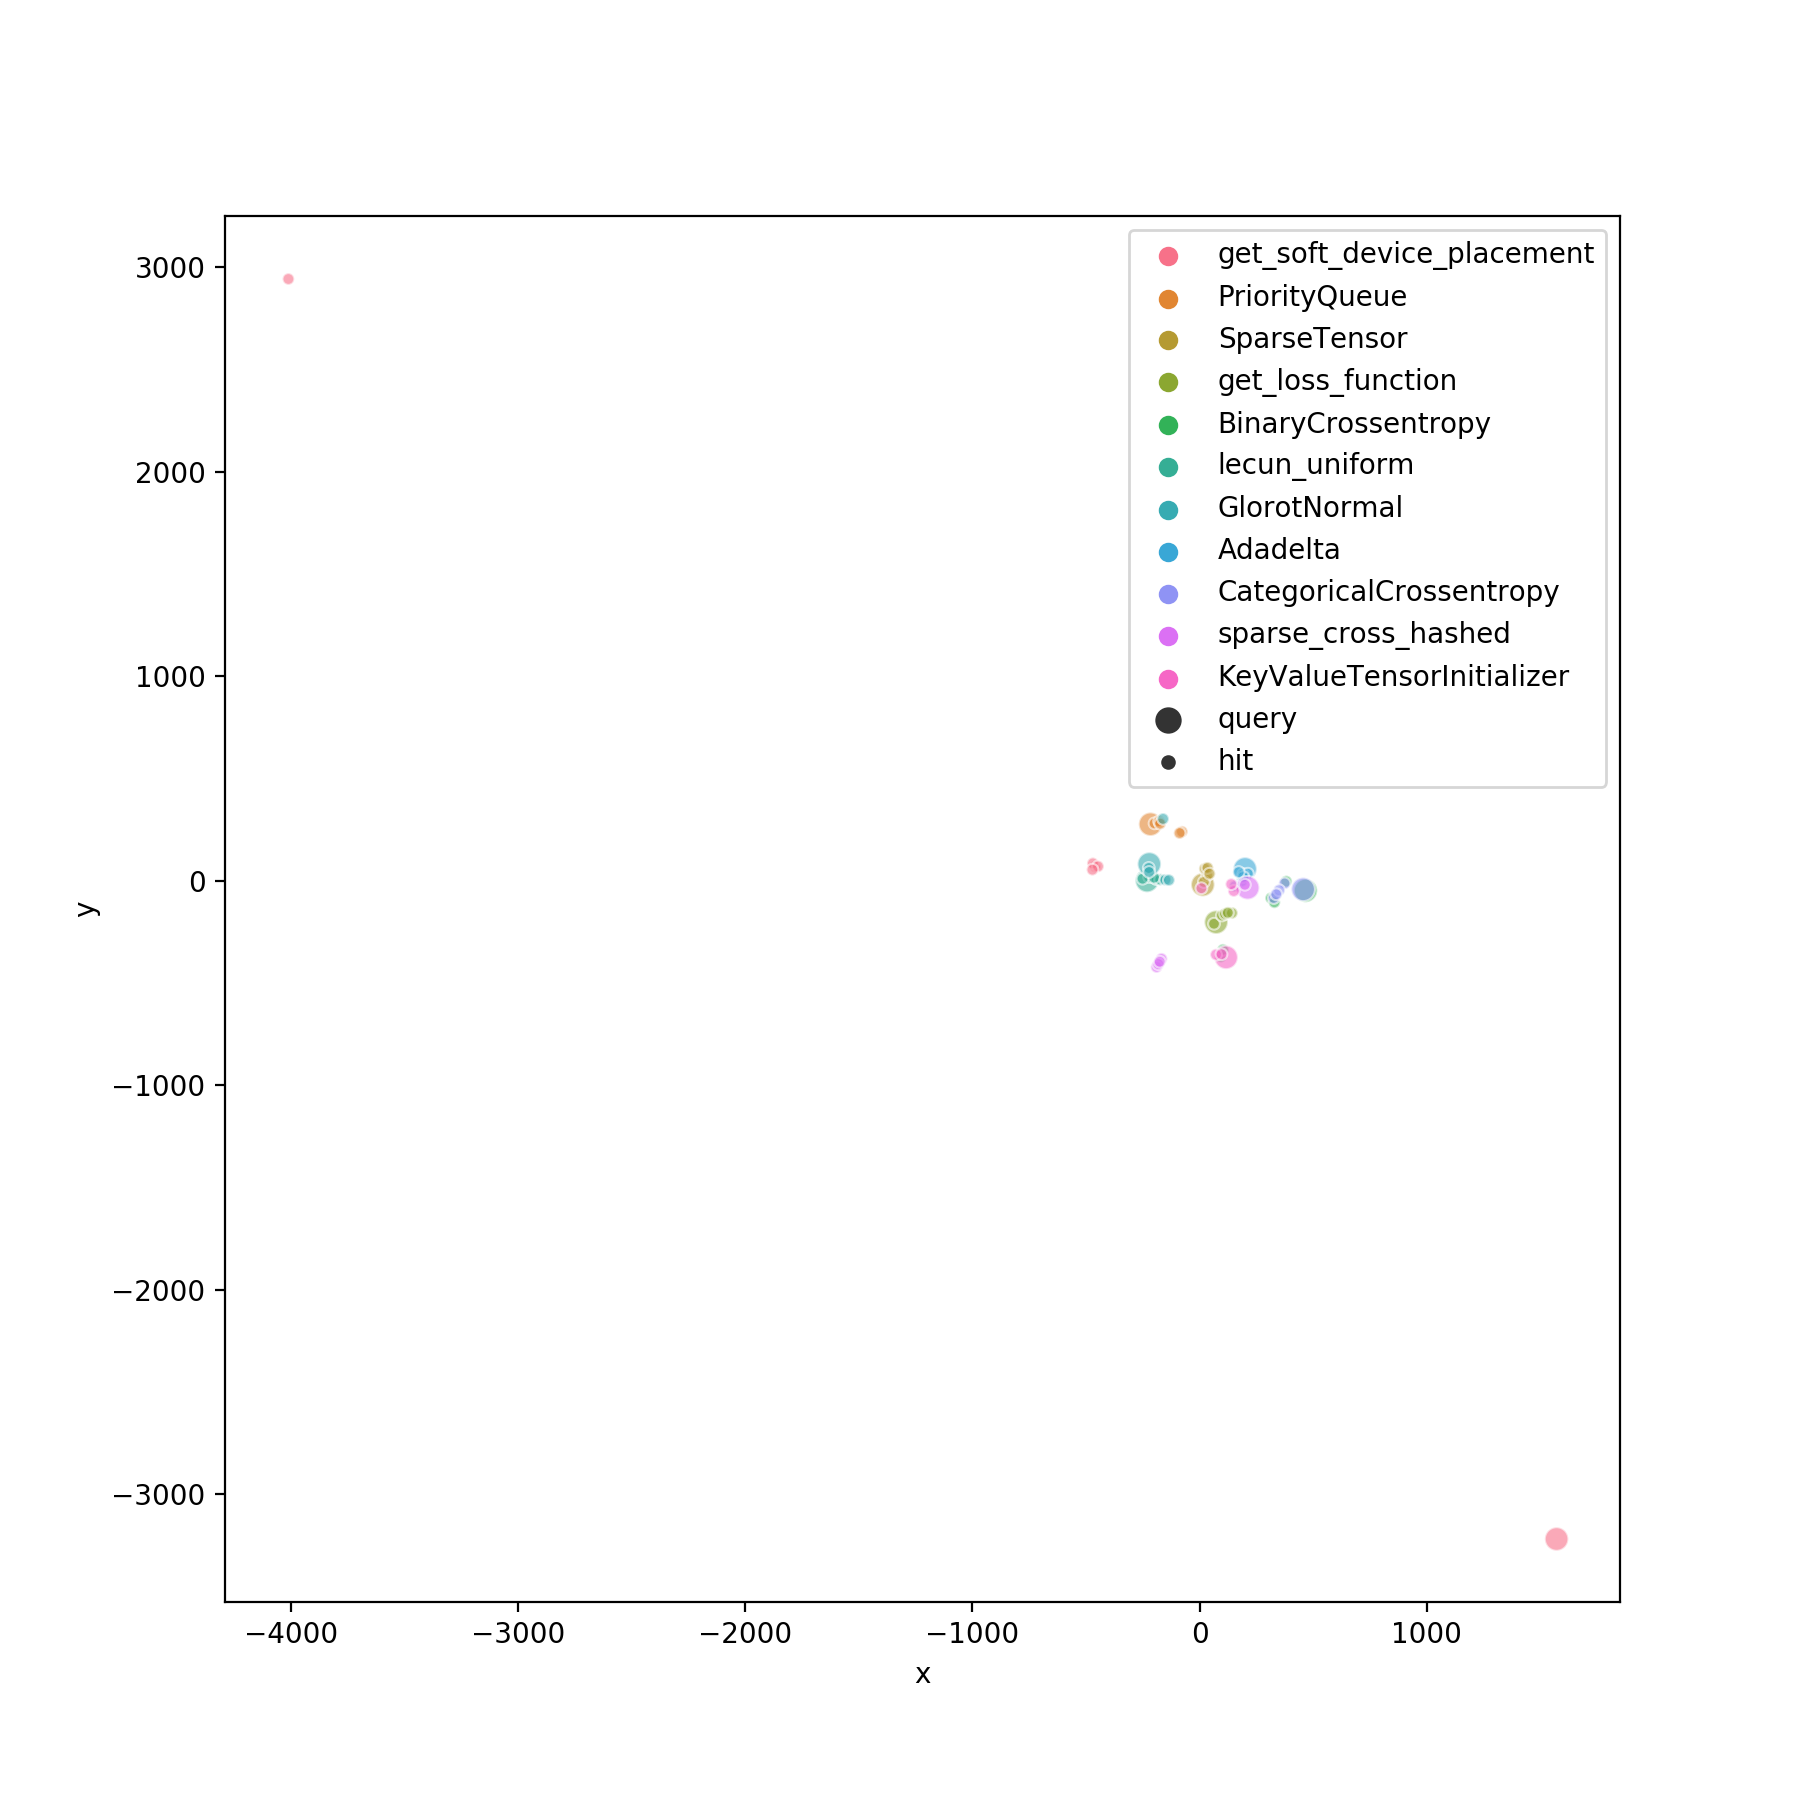
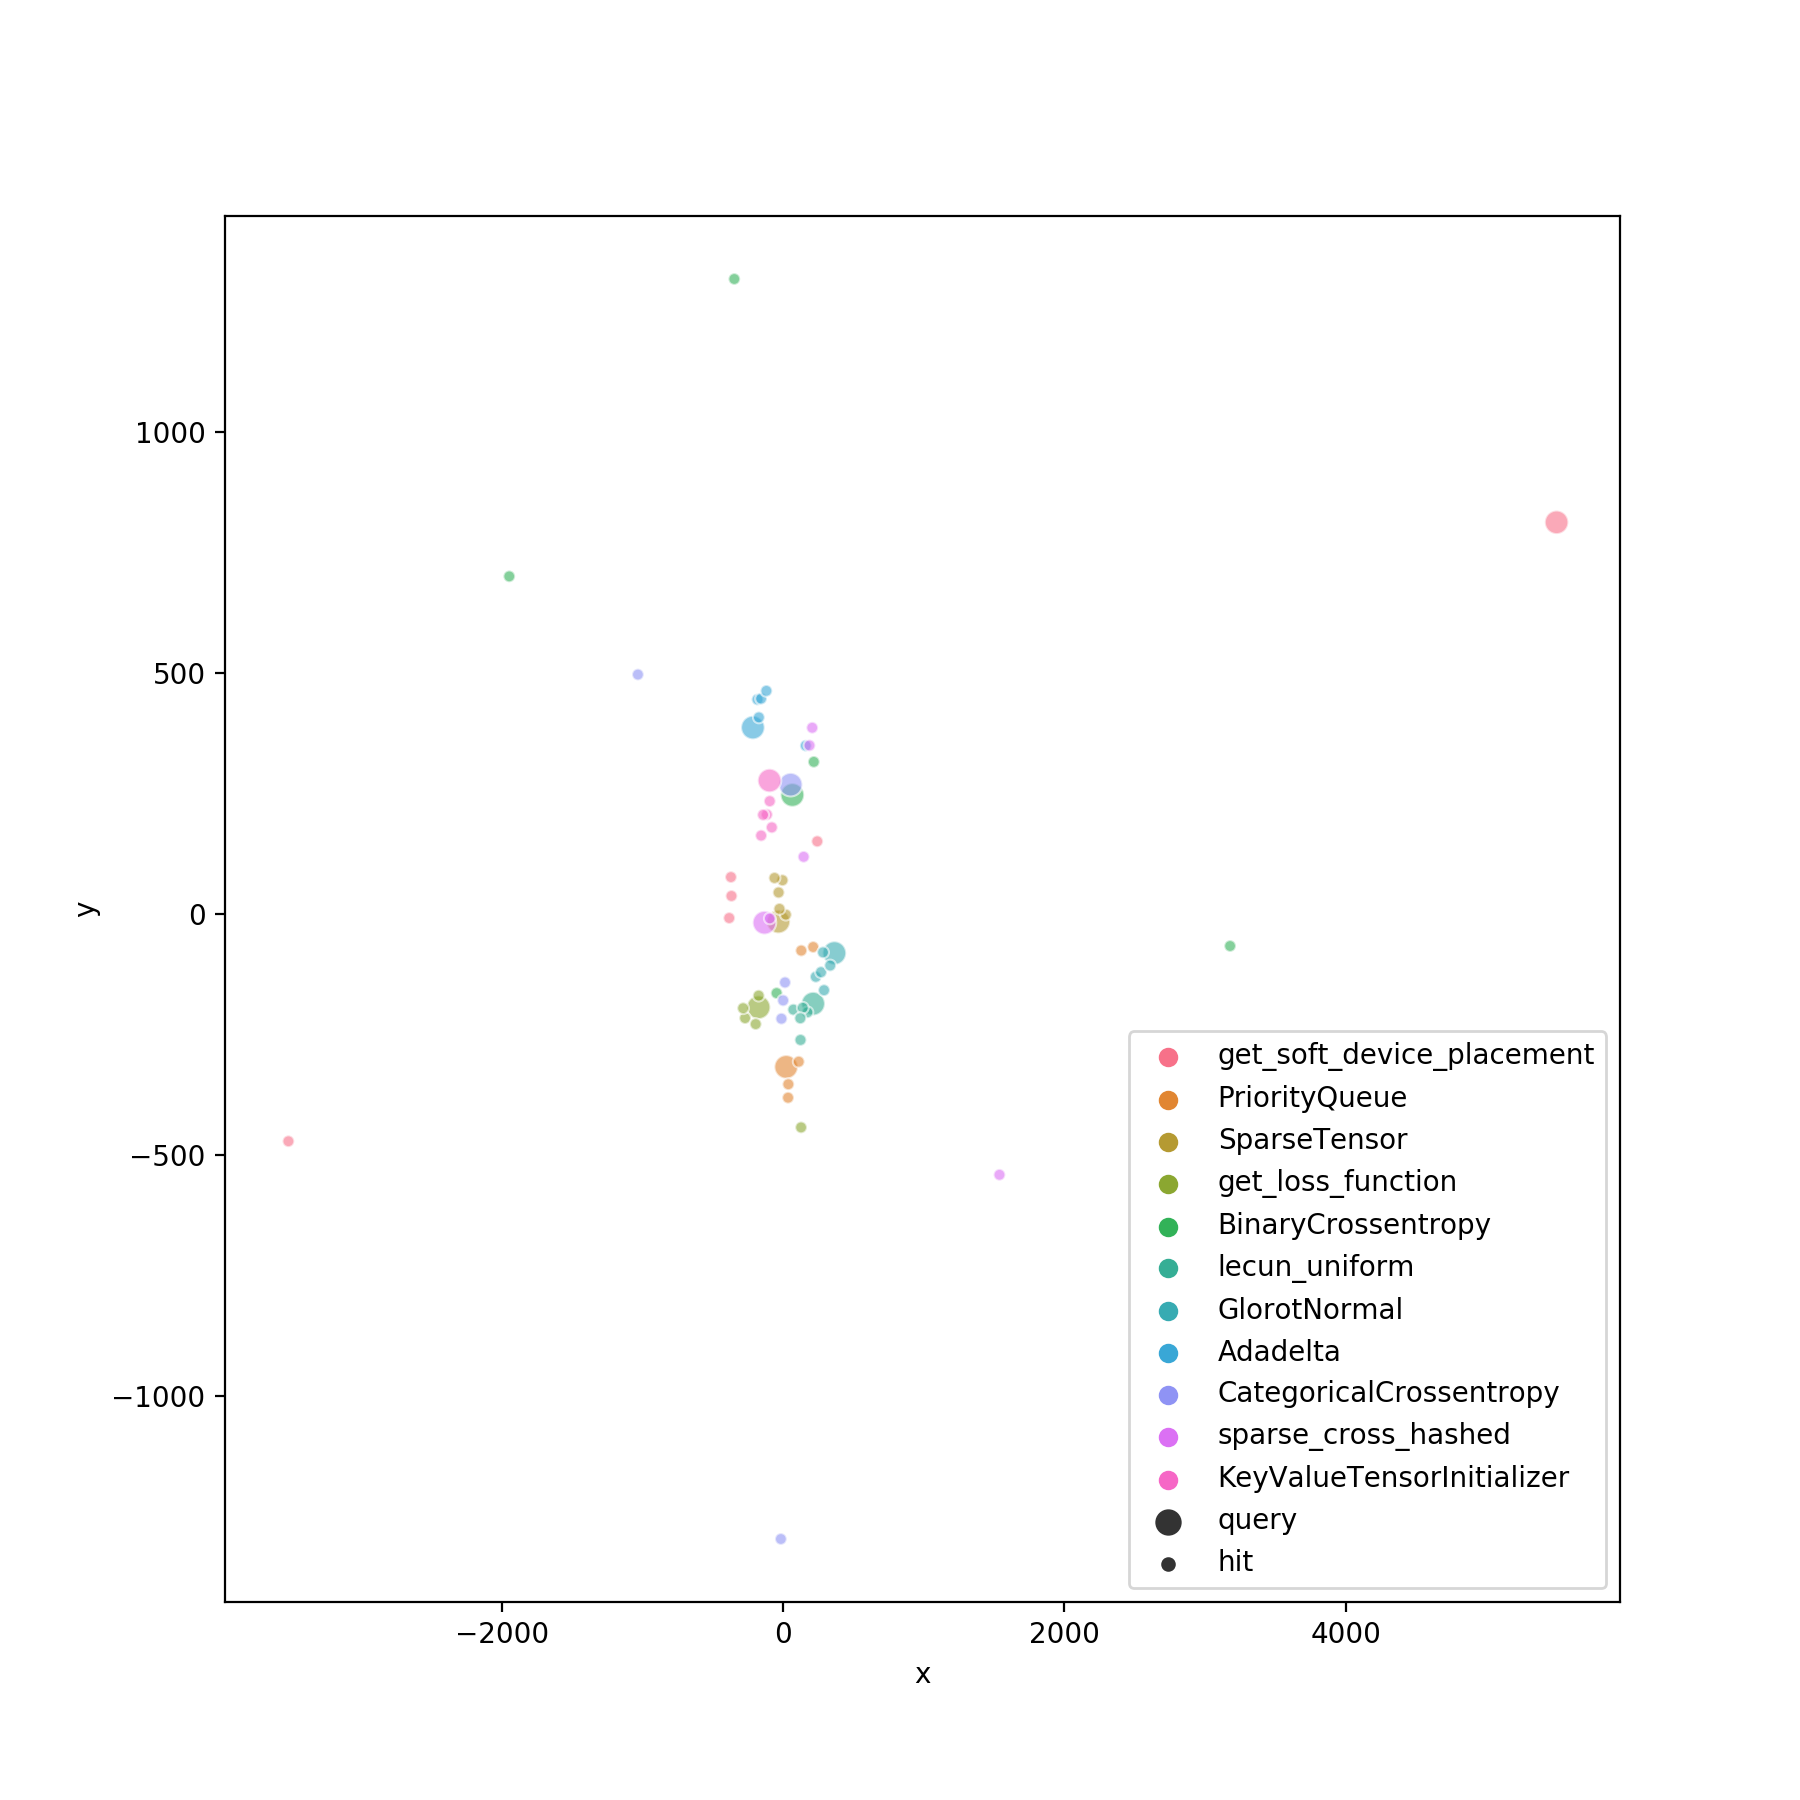
cleaning

diff --git a/query.py b/query.py
@@ -6,7 +6,6 @@ from gensim import corpora
 from gensim import models
 
 # remove common words and tokenize
-# stoplist = set('test tests main'.split())
 stoplist = set('main'.split())
 with open('data.csv', 'r') as f:
     lines = f.read().splitlines(keepends=False)
@@ -33,10 +32,6 @@ def process_line(line):
     parts = [p for p in parts if p not in stoplist]
     fields.insert(0, parts)
     return fields
-
-
-# todo check './tensorflow/tensorflow/core/kernels/data/flat_map_dataset_op.cc line 46
-# todo it does not detect class FlatMapDatasetOp::Dataset : public DatasetBase {
 
 # process names
 all_documents_dict = {d[1]: d for d in [process_line(line) for line in lines]}
@@ -86,10 +81,6 @@ tfidf_model = models.TfidfModel(corpus, id2word=dictionary)
 tfidf_matrix_sim = similarities.MatrixSimilarity(tfidf_model[corpus])
 
 # doc2vec
-
-
-# logging.basicConfig(format='%(asctime)s : %(levelname)s : %(message)s', level=logging.INFO)
-
 def read_corpus():
     for i, line in enumerate(texts):
         yield gensim.models.doc2vec.TaggedDocument(line, [i])
@@ -144,8 +135,6 @@ class Query:
         query_vec = tfidf_model[self.query_bow]  # convert the query to LSI space
         sims = tfidf_matrix_sim[query_vec]  # perform a similarity query against the corpus
         self.res_tfidf = self.top5(sims)
-
-    # todo the output can be more polished: print ranking and some description to better show what are the hits
 
     def doc2vec_query_docs(self):
         vector = doc2vec_model.infer_vector(self.query_words)

diff --git a/search-data.py b/search-data.py
@@ -2,7 +2,7 @@ import query
 
 
 def main():
-    q = query.Query("Optimizer Adadelta")
+    q = query.Query("A generic hash table that is immutable once initialized")
     q.print()
 
 
